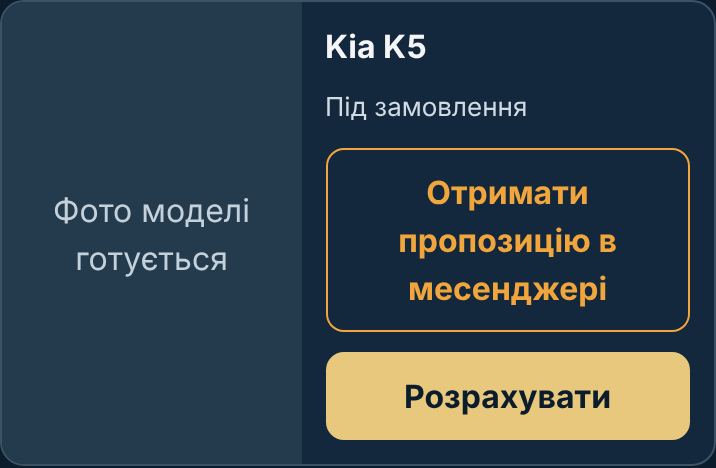
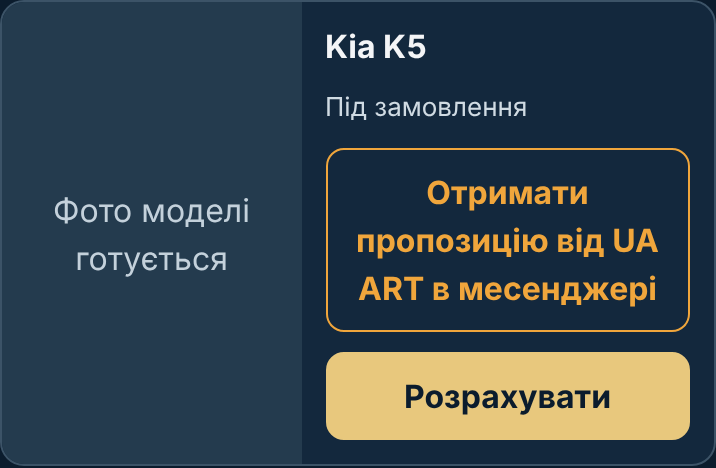
QUICK-LEAD-002: button text «Отримати пропозицію від UA ART в месенджері» (owner «Да 2»); preview R3 request
Claude-Session: https://claude.ai/code/session_01PMbQXi8cxsyrzXqqsb9K7H

Changed region(s): [[0.4916, 0.4786, 0.9218, 0.6581]]

diff --git a/cloud/quick_lead_002/edit_order.py b/cloud/quick_lead_002/edit_order.py
@@ -1,6 +1,7 @@
 """Order page: «get an offer in a messenger» above «calculate» on every model card (QUICK-LEAD-002).
 
-Owner request 2026-10-26. order.js adds the card button (model, country and title as data attributes);
+Owner request 2026-10-26 («Да 2»: «Отримати пропозицію від UA ART в месенджері»).
+order.js adds the card button (model, country and title as data attributes);
 the short enquiry itself is the shared quick-lead.js / quick-lead.css form, here in a <dialog> inside
 the order root, so the page's own language switch translates its [data-label] texts from
 order-strings.json. Asset versions are raised so browsers load the new files. Each original fragment
@@ -22,7 +23,7 @@ DIALOG = ('      <dialog class="ua-quick-dialog" id="quick-lead-dialog">'
           '<input name="customer_name" autocomplete="name" required minlength="2" maxlength="80"></label>'
           '<label><span data-label="quick_phone">Телефон</span>'
           '<input name="phone" type="tel" autocomplete="tel" inputmode="tel" required maxlength="30"></label>'
-          '<button type="submit" data-label="quick_offer">Отримати пропозицію в месенджері</button>'
+          '<button type="submit" data-label="quick_offer">Отримати пропозицію від UA ART в месенджері</button>'
           '<p class="note" data-label="quick_note">Менеджер напише вам у Viber або Telegram.</p>'
           '<p class="consent" data-consent>Натискаючи кнопку, ви погоджуєтесь на обробку персональних даних.</p></div>'
           '<p class="status" data-status role="status" hidden></p>'
@@ -32,17 +33,17 @@ DIALOG = ('      <dialog class="ua-quick-dialog" id="quick-lead-dialog">'
           '<button type="button" class="ua-quick-close" data-quick-close data-label="quick_close">Закрити</button>'
           '</form></dialog>\n')
 TEXTS = {
-    'uk': {'quick_offer': 'Отримати пропозицію в месенджері', 'quick_title': 'Отримати пропозицію на',
+    'uk': {'quick_offer': 'Отримати пропозицію від UA ART в месенджері', 'quick_title': 'Отримати пропозицію на',
            'quick_name': "Ім'я", 'quick_phone': 'Телефон', 'quick_note': 'Менеджер напише вам у Viber або Telegram.',
            'quick_ok': 'Дякуємо! Заявку {number} прийнято. Менеджер напише вам у Viber або Telegram.',
            'quick_error': 'Не вдалося надіслати заявку. Зателефонуйте нам: +380 99 222 20 02.',
            'quick_bad_phone': 'Перевірте номер телефону.', 'quick_bad_name': "Вкажіть ім'я.", 'quick_close': 'Закрити'},
-    'ru': {'quick_offer': 'Получить предложение в мессенджере', 'quick_title': 'Получить предложение на',
+    'ru': {'quick_offer': 'Получить предложение от UA ART в мессенджере', 'quick_title': 'Получить предложение на',
            'quick_name': 'Имя', 'quick_phone': 'Телефон', 'quick_note': 'Менеджер напишет вам в Viber или Telegram.',
            'quick_ok': 'Спасибо! Заявка {number} принята. Менеджер напишет вам в Viber или Telegram.',
            'quick_error': 'Не удалось отправить заявку. Позвоните нам: +380 99 222 20 02.',
            'quick_bad_phone': 'Проверьте номер телефона.', 'quick_bad_name': 'Укажите имя.', 'quick_close': 'Закрыть'},
-    'ka': {'quick_offer': 'შეთავაზების მიღება მესენჯერში', 'quick_title': 'შეთავაზების მიღება:',
+    'ka': {'quick_offer': 'UA ART-ისგან შეთავაზების მიღება მესენჯერში', 'quick_title': 'შეთავაზების მიღება:',
            'quick_name': 'სახელი', 'quick_phone': 'ტელეფონი', 'quick_note': 'მენეჯერი მოგწერთ Viber-ში ან Telegram-ში.',
            'quick_ok': 'გმადლობთ! განაცხადი {number} მიღებულია. მენეჯერი მოგწერთ Viber-ში ან Telegram-ში.',
            'quick_error': 'განაცხადის გაგზავნა ვერ მოხერხდა. დაგვირეკეთ: +380 99 222 20 02.',
@@ -79,7 +80,7 @@ SCRIPT_VERSION = re.compile(r'order/order\.js\?v=[0-9.]+')
 # Public proof that each file is live.
 CHECK_PAGE = 'id="quick-lead-dialog"'
 CHECK_SCRIPT = "quickLeadModel:model.key"
-CHECK_STRINGS = '"quick_offer": "Отримати пропозицію в месенджері"'
+CHECK_STRINGS = '"quick_offer": "Отримати пропозицію від UA ART в месенджері"'
 
 
 def build(name, source):

diff --git a/cloud/quick_lead_002/deployment_controller.py b/cloud/quick_lead_002/deployment_controller.py
@@ -18,7 +18,7 @@ from release_constants import PREVIEW_TASK, INSTALL_TASK, PACKAGE
 # Public evidence of each change: path -> text the page must contain.
 EXPECTED = {'/video/podbor.html': 'id="quick-lead-dialog"',
             '/video/order/order.js': "quickLeadModel:model.key",
-            '/video/order/order-strings.json': '"quick_offer": "Отримати пропозицію в месенджері"',
+            '/video/order/order-strings.json': '"quick_offer": "Отримати пропозицію від UA ART в месенджері"',
             '/video/order/quick-lead.js': '[data-quick-lead-model]',
             '/video/seo/ua/kia-k5-koreya-kyiv.html': 'data-msg="ok"',
             '/video/index.html': '',

diff --git a/cloud/quick_lead_002/test_order_offer.py b/cloud/quick_lead_002/test_order_offer.py
@@ -155,7 +155,7 @@ class OrderPageTests(unittest.TestCase):
         for lang, texts in edit_order.TEXTS.items():
             for key, value in texts.items():
                 self.assertEqual(strings[lang][key], value)
-        self.assertEqual(strings['uk']['quick_offer'], 'Отримати пропозицію в месенджері')
+        self.assertEqual(strings['uk']['quick_offer'], 'Отримати пропозицію від UA ART в месенджері')
 
     def test_dialog_uses_the_shared_form_contract(self):
         page = self.built[edit_order.PAGE].decode()

diff --git a/cloud/quick_lead_002/release_constants.py b/cloud/quick_lead_002/release_constants.py
@@ -1,5 +1,5 @@
 """Order page model-card offer release (QUICK-LEAD-002); no private source in this package."""
-PREVIEW_TASK = 'QUICK-LEAD-002-PREFLIGHT-20261026-R2'
+PREVIEW_TASK = 'QUICK-LEAD-002-PREFLIGHT-20261026-R3'
 INSTALL_TASK = 'QUICK-LEAD-002-INSTALL-20261026'
 PACKAGE = 'cloud/quick_lead_002'
 # Installed path -> file of this package.
